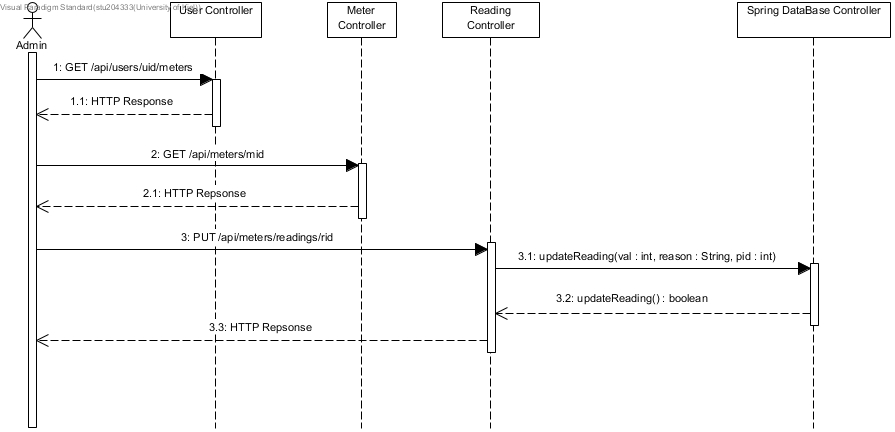
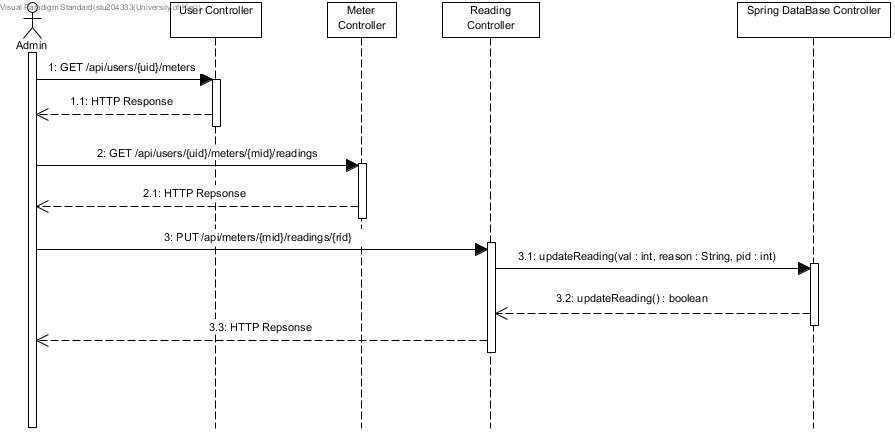
Add new sequence diagrams
Also fix spelling mistakes and grammatical issues.

Changed region(s): [[0.1207, 0.331, 0.362, 0.3912], [0.181, 0.5417, 0.3922, 0.5718], [0.0603, 0.1505, 0.2112, 0.1806]]

diff --git a/entwurf/LaTeX/kapitel/sequenzdiagramme.tex b/entwurf/LaTeX/kapitel/sequenzdiagramme.tex
@@ -1,6 +1,6 @@
 
-In diesem Kapitel sind die Sequenzdiagramme beschrieben, die Vorgänge beschreiben bei denen das Verhalten nicht trivial ist.
-Nicht trivial ist ein Verhalten, bei dem das Diagramm nicht einem ``Durchreichen'' von Aufrufen entspricht.
+In diesem Kapitel sind die Sequenzdiagramme beschrieben, die Vorgänge beschreiben, deren Verhalten nicht trivial ist.
+Nicht trivial ist ein Verhalten, bei dem der Ablauf des Diagramms nicht einem ``Durchreichen'' von Aufrufen entspricht.
 \section{Triviale Abfrage}
 \begin{figure}[H]
 	\centering
@@ -15,17 +15,17 @@ Als Beispiel für ein triviales Sequenzdiagramm lässt sich das Abfragen der Dat
 	\includegraphics[width=16cm]{img/diagrams/SubmitFotoSequence}
 	\caption{Erfolgreiche Bildübermittlung}
 \end{figure}
-Das folgende Sequenzdiagramm beschreibt den Vorgang des erfolgreichen Übermittelns eines Zählerstandes als Bild.Zuerst lädt der Nutzer ein Foto hoch, dieses wird mittels der Methode azureAnalyse vom Netzwerk-Controller per POST-Request ans Backend der Website geschickt. Dieses leitet das Bild per HTTP an die Klassifizierungsschnittstelle des AzureWrappers weiter. Nach der Antwort wird über HTTP das Bild an die nächste Schnittstelle Area-Detect geschickt. Als letztes wird das Bild noch per HTTP an die Schnittstelle Parse-Text geschickt. Die erhaltenen Daten werden jetzt einer ersten Plausibilitätsprüfung unterzogen. (Richtigkeit der Stellen und Klassifizierung)\\
-Nun werden mittels getUsersMeters() alle Zähler für den Nutzer von der Datenbank abgefragt, um zu Prüfen, ob die Nummer des Zählers der Nummer eines der Zähler des Users entspricht.
-Wenn dies der Fall ist, wird eine HTTP Response an den Network-Controller gesendet, die die gelesene Zählernummer und den gelesenen Zählerstand übermittelt. Nun wird der Nutzer aufgefordert die gelesenen Werte zu bestätigen. \\
-Die Bestätigung entspricht dabei einer manuellen Eingabe.\\
-Der Ablauf eines manuellen Eintrages entspricht dabei dem unteren Teil des Diagramms.
+Das folgende Sequenzdiagramm beschreibt den Vorgang des erfolgreichen Übermittelns eines Zählerstandes als Bild.
+Zuerst lädt der Nutzer ein Foto hoch, dieses wird mittels der Methode azureAnalyse() vom Netzwerk-Controller per POST-Request ans Back-End der Website geschickt. Dieses leitet das Bild per HTTP an die Klassifizierungsschnittstelle des AzureWrappers weiter. Nach der Antwort wird über HTTP das Bild an die nächste Schnittstelle, ``Area Detect'' geschickt. Als Letztes wird das Bild via HTTP an die Schnittstelle ``Parse Text''  geschickt. Die erhaltenen Daten werden jetzt einer ersten Plausibilitätsprüfung unterzogen. Die wird die Richtigkeit der Länge und der Klassifizierung überprüft.\\
+Nun werden mittels getUsersMeters() alle Zähler für den Nutzer abgefragt, um zu Prüfen, ob die Nummer des Zählers der Nummer eines der Zähler des Users entspricht.
+Wenn dies der Fall ist, wird eine HTTP-Response an den Network-Controller gesendet, die die gelesene Zählernummer und den gelesenen Zählerstand übermittelt. Nun wird der Nutzer aufgefordert die gelesenen Werte zu bestätigen. \\
+Der Ablauf eines manuellen Eintrages entspricht dem unteren Teil des Diagramms (ab Punkt 2).
 
 \section{Zählerstände für User updaten}
 \begin{figure}[H]
 	\centering
 	\includegraphics[width = 15cm]{img/diagrams/ChangeReading}
-	\caption{Abfrage der Nutzerlisten}
+	\caption{Zählerstand eines Nutzers als Admin updaten}
 \end{figure}
 Administratoren können unter Angabe eines Grundes Zählerstände aktualisieren.
-Dafür muss der Administrator zuerst mittels eines HTTP-Requests zu einer User-ID alle Zähler vom User Controller abfragen. Danach werden mittels einer weiteren Anfrage alle Zählerstände des Zählers abgefragt. Nun kann mittels eines PUT-Request mit der rid ein bestimmter Eintrag verändert werden. Dafür wird der neue Zählerstand, der Grund der Änderung und die ID des Admins versendet, die dann für den Funktionsaufruf ''updateReading'' verwendet wird. Wenn die Änderung erfolgreich war, sendet der Reading Controller in der HTTP Response einen Erfolg zurück.
+Dafür muss der Administrator zuerst mittels eines HTTP-Requests alle Zähler  zu einer User-ID vom UserController abfragen. Danach werden mittels einer weiteren Anfrage alle Zählerstände des Zählers abgefragt. Nun kann mittels eines PUT-Request mit der Reading-ID ein bestimmter Eintrag verändert werden. Dafür wird der neue Zählerstand, der Grund der Änderung und die ID des Admins versendet, die dann für den Funktionsaufruf ''updateReading'' verwendet wird. Wenn die Änderung erfolgreich war, sendet der Reading Controller in der HTTP Response einen Erfolg zurück.
